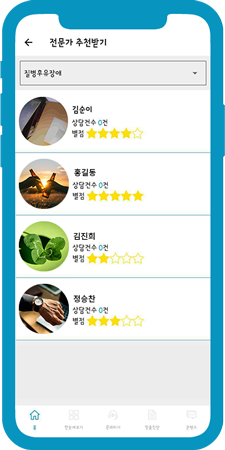
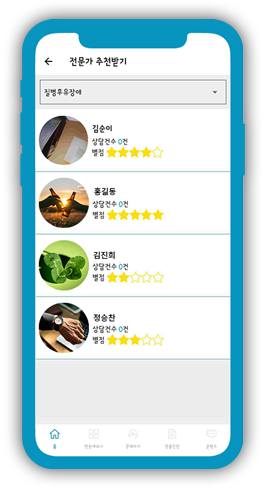
*5월 31일 희아 보비 앱이미지 넣기 90%

diff --git a/bobby/public/css/b_main.css b/bobby/public/css/b_main.css
@@ -40,12 +40,12 @@ margin-left: -20px;}
 
 @media all and (max-width:765px) {
 .main-bg{height:400px; padding:120px 0}
-.service-info .info1{padding-top:0}
+.service-info .info1{height:515px; padding-top:0}
 .service-info .info1 h3{margin-top:70px}
 .service-info .info1 img{height:300px; margin-top:24px}
 #mob-info1-text{display:block}
 #web-info1-text{display:none}
-.service-info .info2{padding-top:0;}
+.service-info .info2{height:610px; padding-top:0;}
 .service-info .info2 img{height:370px; margin-top:34px;}
 .service-info .info2 h3{margin-top:70px;}
 .service-info .info2 h3, p{text-align:center;}

diff --git a/bobby/public/css/b_top-bottom.css b/bobby/public/css/b_top-bottom.css
@@ -1,4 +1,5 @@
 boddy{}
+p{line-height:1.8em !important}
 .font1{font-family:'Nanum Brush Script', serif;}
 .color1{color:#0794be}
 
